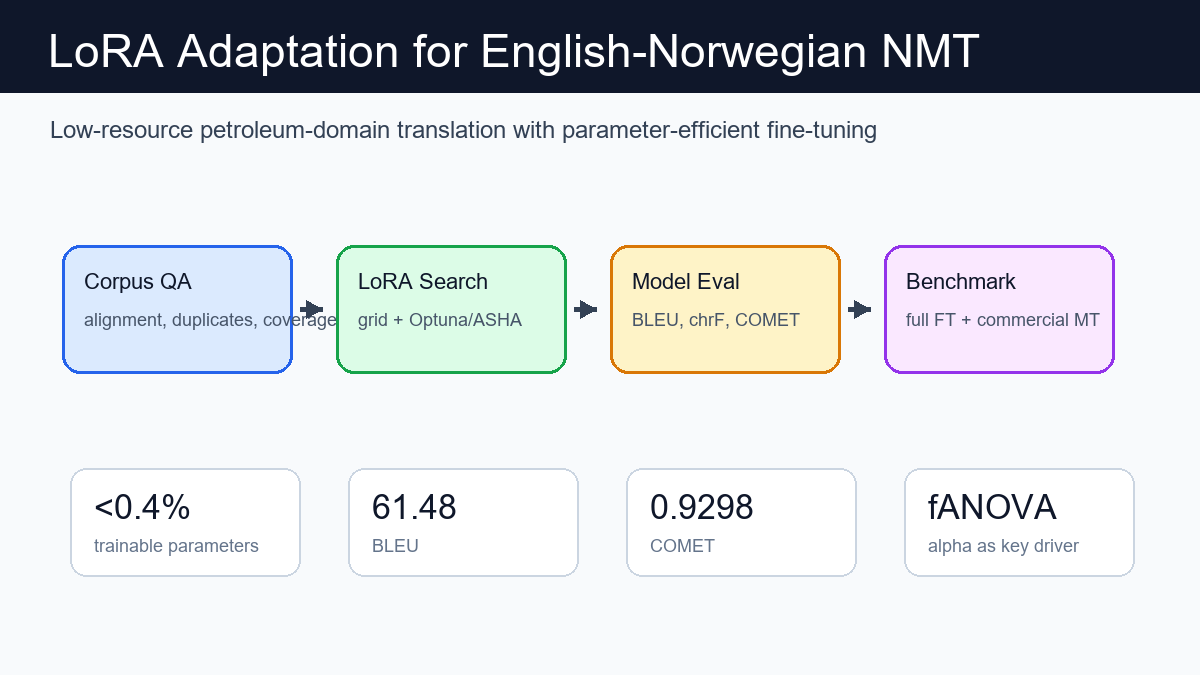
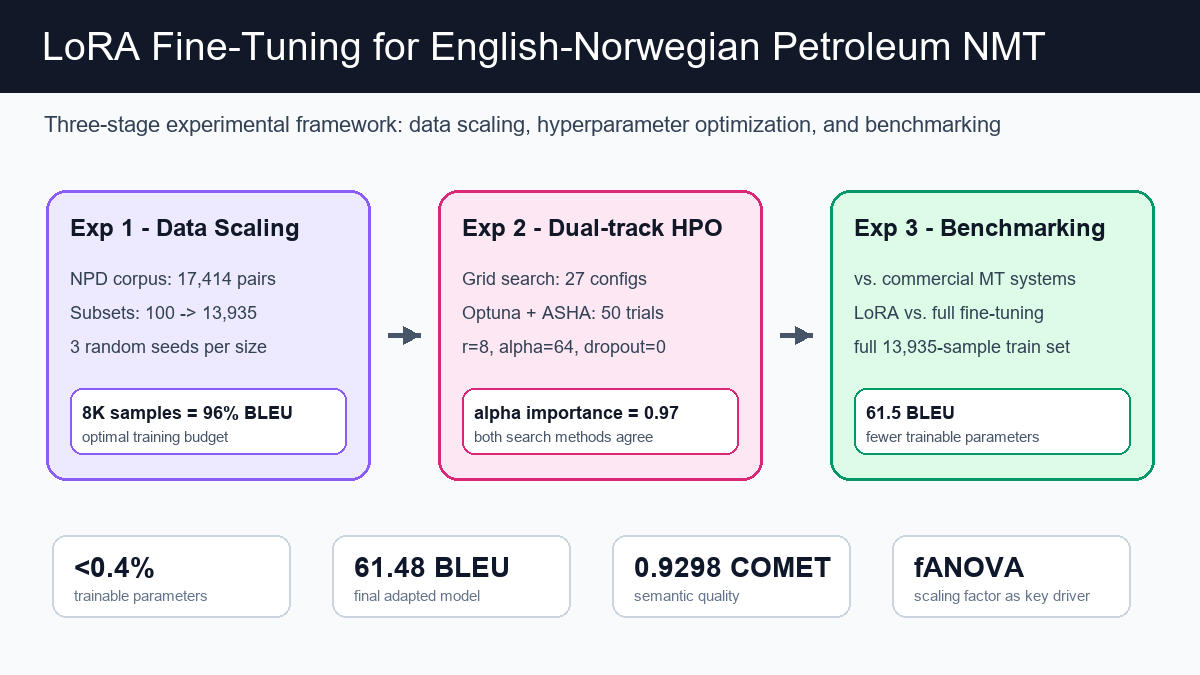
Improve LoRA NMT project visuals

diff --git a/config/projects.ts b/config/projects.ts
@@ -62,7 +62,7 @@ export const Projects: ProjectInterface[] = [
         title: "Three-Stage Adaptation Framework",
         description:
           "The project combines corpus preparation, data-scaling analysis, dual-track LoRA hyperparameter search, and final benchmarking against open-source, full fine-tuning, and commercial MT baselines.",
-        imgArr: ["/projects/lora-nmt-petroleum/framework_v3.png"],
+        imgArr: ["/projects/lora-nmt-petroleum/three-stage-framework.png"],
       },
       {
         title: "Data Scaling and Training Budget",
